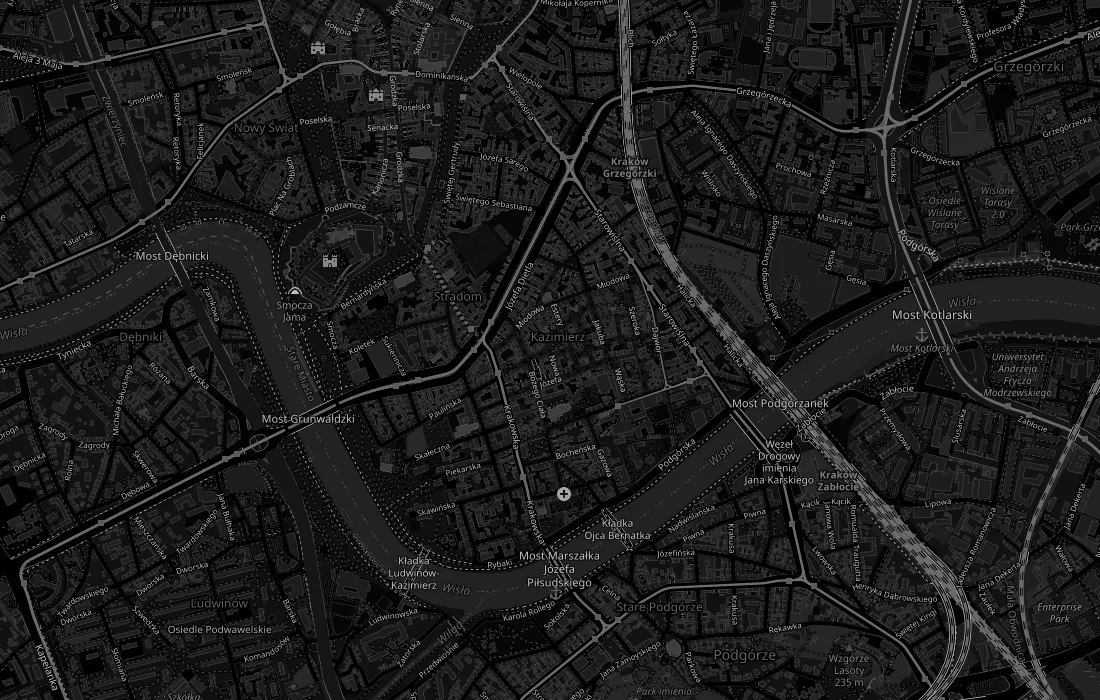
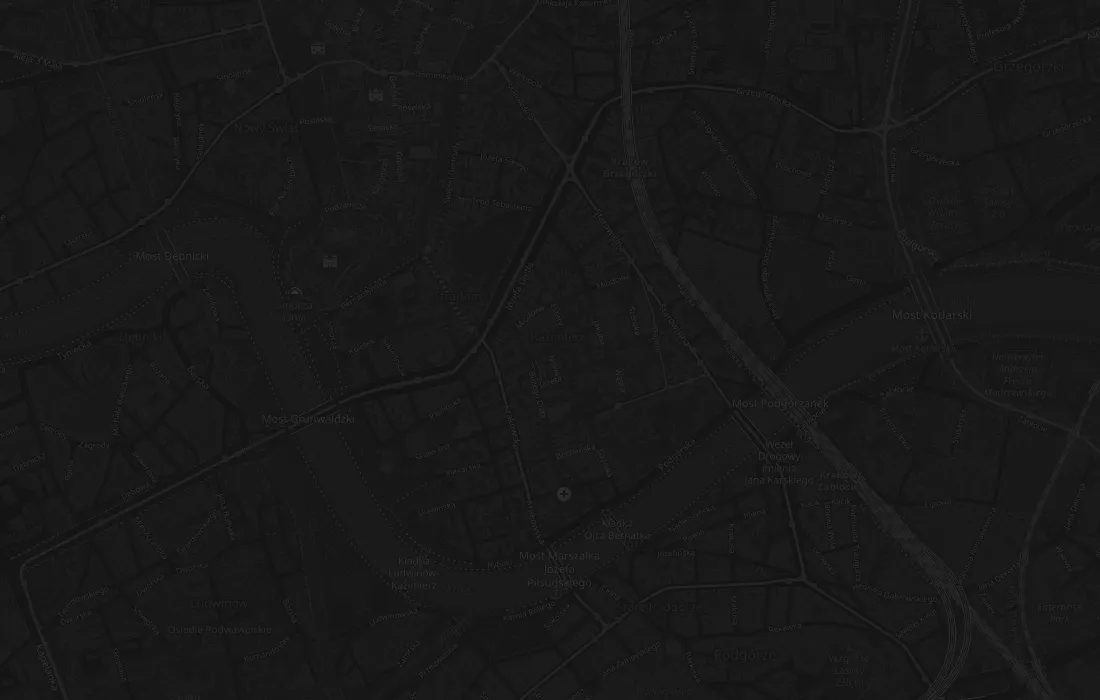
Szablon 1, Dojazd: mapa spokojna i ciemna, widoczna tylko wokół pinezki (uwaga Adriana), obraz mapy 71 KB; silnik visual-scale-wp 2184520

diff --git a/szablon-1/index.html b/szablon-1/index.html
@@ -4164,22 +4164,44 @@ img:is([sizes=auto i],[sizes^="auto," i]){contain-intrinsic-size:3000px 1500px}
  * fala i upadek pinezki z awatarem), ale lustrzanie i nocą:
  * - komputer: mapa od lewej krawędzi do 90 % szerokości, treść w prawej połowie na czerni; warstwa czerni z prawej
  *   z prostym, miękkim brzegiem (bez skosu: proste linie Adriana), przy wjeździe wpływa z prawej;
- * - kafle jak mapa nocą (zestawienie 4 filtrów, wybrany „głęboki”): odwrócona szarość, ląd #0c0c0c przechodzi
- *   w czarne tło sekcji bez krawędzi, ulice jaśniejsze, Wisła i podpisy czytelne;
+ * - kafle jak mapa nocą, spokojna (Adrian 21.10.2026: „mapka … zbyt nachalna jest jak na ten wzór strony”, Igor:
+ *   „delikatnie bardziej subtelnie … mniej chaotycznie”): odwrócona szarość z małym kontrastem, ląd ciemnoszary,
+ *   ulice, Wisła i podpisy ledwo zaznaczone; mapa wyłania się z czerni tylko wokół pinezki (światło niżej);
  * - pinezka biała z czarnym monogramem i nazwą (vs_logo), awatar w białej obwódce, biały punkt i fala;
  * - tytuł Gildą wersalikami w dwóch wierszach, adres i „Wyznacz trasę” jak w stopce, ocena jak w pierwszym ekranie.
  * Telefon: mapa na górze z prostym zanikiem w czerń, treść pod nią do lewej.
  */
 .vs-szablon-1 .vs-dojazd {
 	--vs-dojazd-tlo: var(--vs-ciemne);
-	--vs-dojazd-lad: #0c0c0c;
+	--vs-dojazd-lad: #181818;
 	--vs-dojazd-linia: color-mix(in srgb, var(--vs-linia) 62%, var(--vs-ciemne));
+	/* Promienie światła wokół pinezki (szerokość, wysokość); na komputerze mniejsze, niżej. */
+	--vs-dojazd-swiatlo: 80vw 70vw;
 	overflow-x: clip;
 	color: var(--vs-na-ciemnym);
 }
 
 .vs-szablon-1 .vs-dojazd .leaflet-tile-pane {
-	filter: grayscale(1) invert(0.92) contrast(1.3) brightness(0.75);
+	filter: grayscale(1) invert(1) contrast(0.42) brightness(0.27);
+}
+
+/*
+ * Światło wokół pinezki: dalej od adresu mapa gaśnie w czerń sekcji, więc widać spokojną plamę ulic przy gabinecie,
+ * a nie całe miasto. Warstwa nad mapą (Leaflet: mapa 400) i pod przyciskami +/− (800 i wyżej); środek przezroczysty,
+ * więc etykieta pinezki zostaje czysta. Obraz mapy (mapa.mjs) ma same kafle, światło dokłada ta warstwa.
+ */
+.vs-szablon-1 .vs-dojazd__plotno::after {
+	content: "";
+	position: absolute;
+	inset: 0;
+	z-index: 450;
+	background: radial-gradient(
+		ellipse var(--vs-dojazd-swiatlo) at var(--vs-dojazd-punkt-x) 50%,
+		transparent 40%,
+		color-mix(in srgb, var(--vs-dojazd-tlo) 65%, transparent) 72%,
+		var(--vs-dojazd-tlo) 100%
+	);
+	pointer-events: none;
 }
 
 /* Telefon: prosty zanik w czerń od dołu (w szablonie 3 pochylony). */
@@ -4326,6 +4348,8 @@ img:is([sizes=auto i],[sizes^="auto," i]){contain-intrinsic-size:3000px 1500px}
 	.vs-szablon-1 .vs-dojazd {
 		/* Adres na 25 % szerokości mapy (ok. 22 % sekcji): cała biała etykieta po odsłoniętej stronie, także na starcie fali. */
 		--vs-dojazd-punkt-x: 25%;
+		/* Procenty w rozmiarze gradientu z calc() Chrome odrzuca, więc vw i svh (mapa to 90 % szerokości sekcji). */
+		--vs-dojazd-swiatlo: clamp(300px, 27vw, 560px) clamp(330px, 48svh, 495px);
 	}
 
 	/* Mapa od lewej krawędzi do 90 %: pełna część warstwy zawsze przykrywa jej prawą krawędź, także przy fali. */
